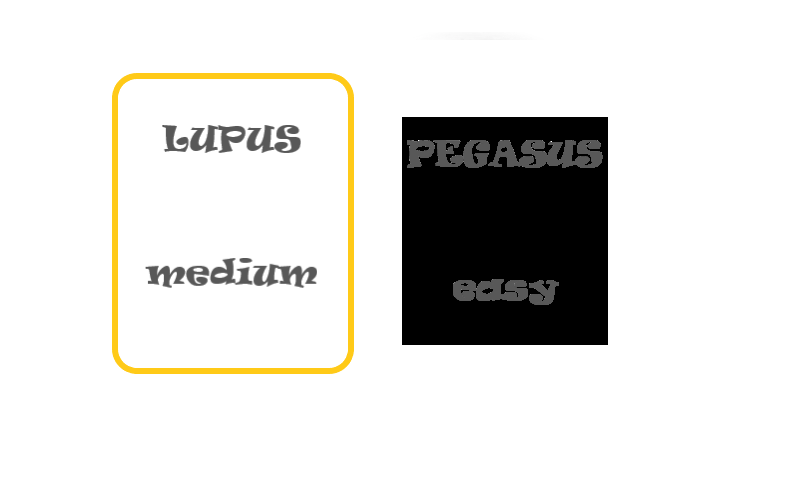
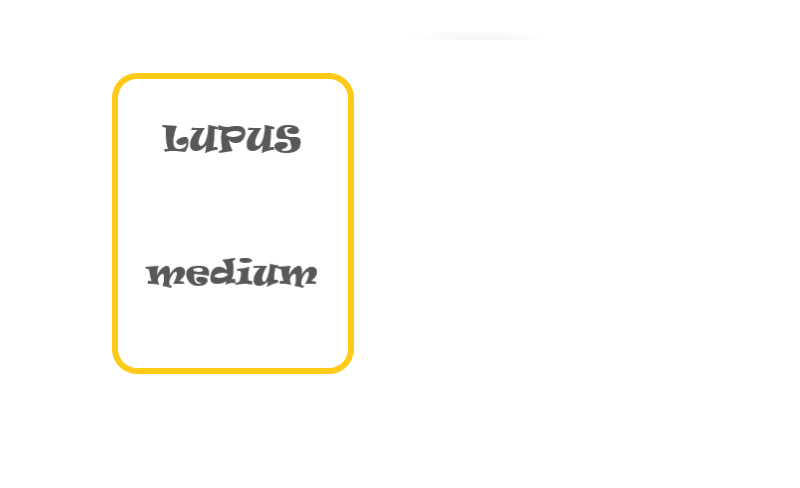
chnages :)

Changed region(s): [[0.5, 0.2152, 0.7812, 0.707]]

diff --git a/src/Controller.cpp b/src/Controller.cpp
@@ -17,15 +17,19 @@ Controller::Controller() :
 //------------------------------------------------------------------------------
 void Controller::run()
 {
-    //Music::instance().startMenuSound();
-    //float deltaTime = 0;
+    Music::instance().startMenuSound();
 
     while (true)
     {
         m_menu.openMenu();
         MenuOptions option = m_menu.getSelected();
+        LevelOptions level = m_menu.getLevel();
         if (option == MenuOptions::EXIT)
             return;
+        else if (option == MenuOptions::LEVEL)
+        {
+            m_menu.levelWindow();
+        }
         else if (option == MenuOptions::START)
         {
             m_window.create(sf::VideoMode(STARTWIDTH, STARTHEIGHT), "Example");
@@ -46,11 +50,8 @@ void Controller::run()
                 m_window.draw(sprite);
                 drawPlanets(m_window);
                 m_window.display();
-
                 timePassed = m_clock.restart();
                 timePassed *= 25.f;
-
-                generate();
                 moveUnits(timePassed);
                 checkCollisions();
                 checkForNewPlanets();
@@ -67,13 +68,13 @@ void Controller::run()
                         handleClick(event, m_window);//update player choice
                     }
                 }
-                        if (clock.getElapsedTime().asSeconds() > 0.5f) {
-                            if (rectSourceSprite.left == 1075)
-                                rectSourceSprite.left = 0;
-                            else
-                                rectSourceSprite.left += 214;
-                            sprite.setTextureRect(rectSourceSprite);
-                            clock.restart();
+                if (clock.getElapsedTime().asSeconds() > 0.5f) {
+                    if (rectSourceSprite.left == 1075)
+                        rectSourceSprite.left = 0;
+                    else
+                        rectSourceSprite.left += 214;
+                    sprite.setTextureRect(rectSourceSprite);
+                    clock.restart();
                 }
             }
         }

diff --git a/src/Menu.cpp b/src/Menu.cpp
@@ -92,15 +92,15 @@ void Menu::loadLevelSprite()
         m_levelSprites[i].setTexture(Graphic::PicturesObject().getLevelTexture(i));
     m_levelSprites[0].setOrigin(200.f,50.f);
     m_levelSprites[0].setPosition((float)STARTWIDTH/2, 105.f);
-    for (size_t i = 2; i < m_levelSprites.size() - 1; i++)
-    {
-        m_levelSprites[i].setOrigin
-    }
+    //for (size_t i = 2; i < m_levelSprites.size() - 1; i++)
+    //{
+    //    m_levelSprites[i].setOrigin
+    //}
 
     for (size_t i = 2; i < m_levelSprites.size() - 1; i++)
     {
         m_levelSprites[i].setPosition((float)STARTWIDTH / 4 - m_levelSprites[i].getGlobalBounds().width / 4, 270.f + i * 50.f);
-    }*/
+    }
 }
 //----------------------------------------------------------------------------------------------------------------------
 void Menu::addOptions()

diff --git a/include/Controller.h b/include/Controller.h
@@ -22,7 +22,6 @@ public:
 	void checkCollisions();
 	void handleClick(const sf::Event& event, sf::RenderWindow& window) ;
 	void checkForNewPlanets();
-
 private:
 	sf::RenderWindow m_window;
 	Board m_board;
